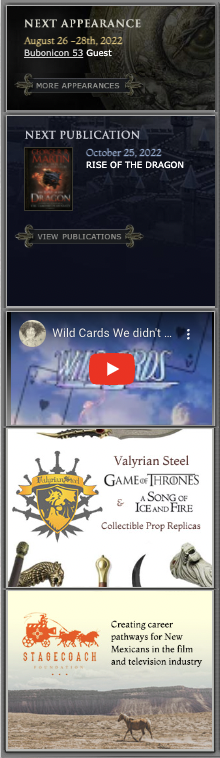
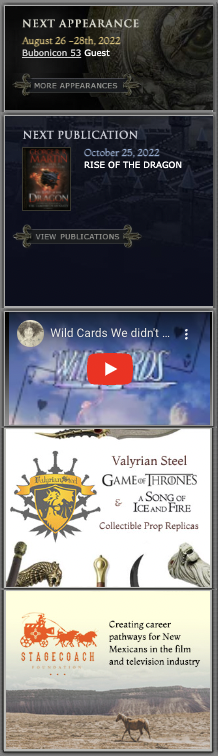
Project 1 Responsive Redesign 2nd commit

Changed region(s): [[0.0, 0.0, 0.9908, 1.0], [0.578, 0.3042, 0.633, 0.3347]]

diff --git a/Assignments/Project1ResponsiveRedesign/index.html b/Assignments/Project1ResponsiveRedesign/index.html
@@ -39,13 +39,13 @@
 <div class="grid-container">
   <div class="grid-item" id="item1">
     <video controls="controls" width="870" height="300" name="GOT_Carousel">
-  <source src='../../Assets/GOT_Carousel.mov'>
-</video>
+  <source src='../../Assets/GOT_Carousel.mov'></video>
   </div>
   <div class="grid-item" id="item2">
     <!-- <img src="../../Assets/got_sidebar.png" alt="sidebar"> -->
-    <video controls="controls" width="332" height="1138" name="GOT_Carousel">
-  <source src='../../Assets/got_sidebar.png'>
+    <!-- <video controls="controls" width="332" height="1138" name="GOT_Carousel">
+  <source src='../../Assets/got_sidebar.png'> -->
+      <img src="../../Assets/got_sidebar.png" alt="Sidebar" width= 500 id="Sidebar"></a>
   </div>
   <div class="grid-item" id="item3">
     <img src="../../Assets/current-blogs.png" alt="Current_Blogs" width= 500 id="Current-Blogs"></a>

diff --git a/Assignments/assignments.html b/Assignments/assignments.html
@@ -64,6 +64,7 @@ ul, li{
         <li><a href="Assignment12/Assignment12.html">(12) Mobile-first Layout</a></li>
         <li><a href="GridIntro/gridintro.html">• Grid Activity •</a></li>
         <li><a href="Assignment13/index.html">(13) Grids</a></li>
+        <li><a href="Project1ResponsiveRedesign/index.html">Project 1: Responive Redesign</a></li>
 
 
         <hr />
